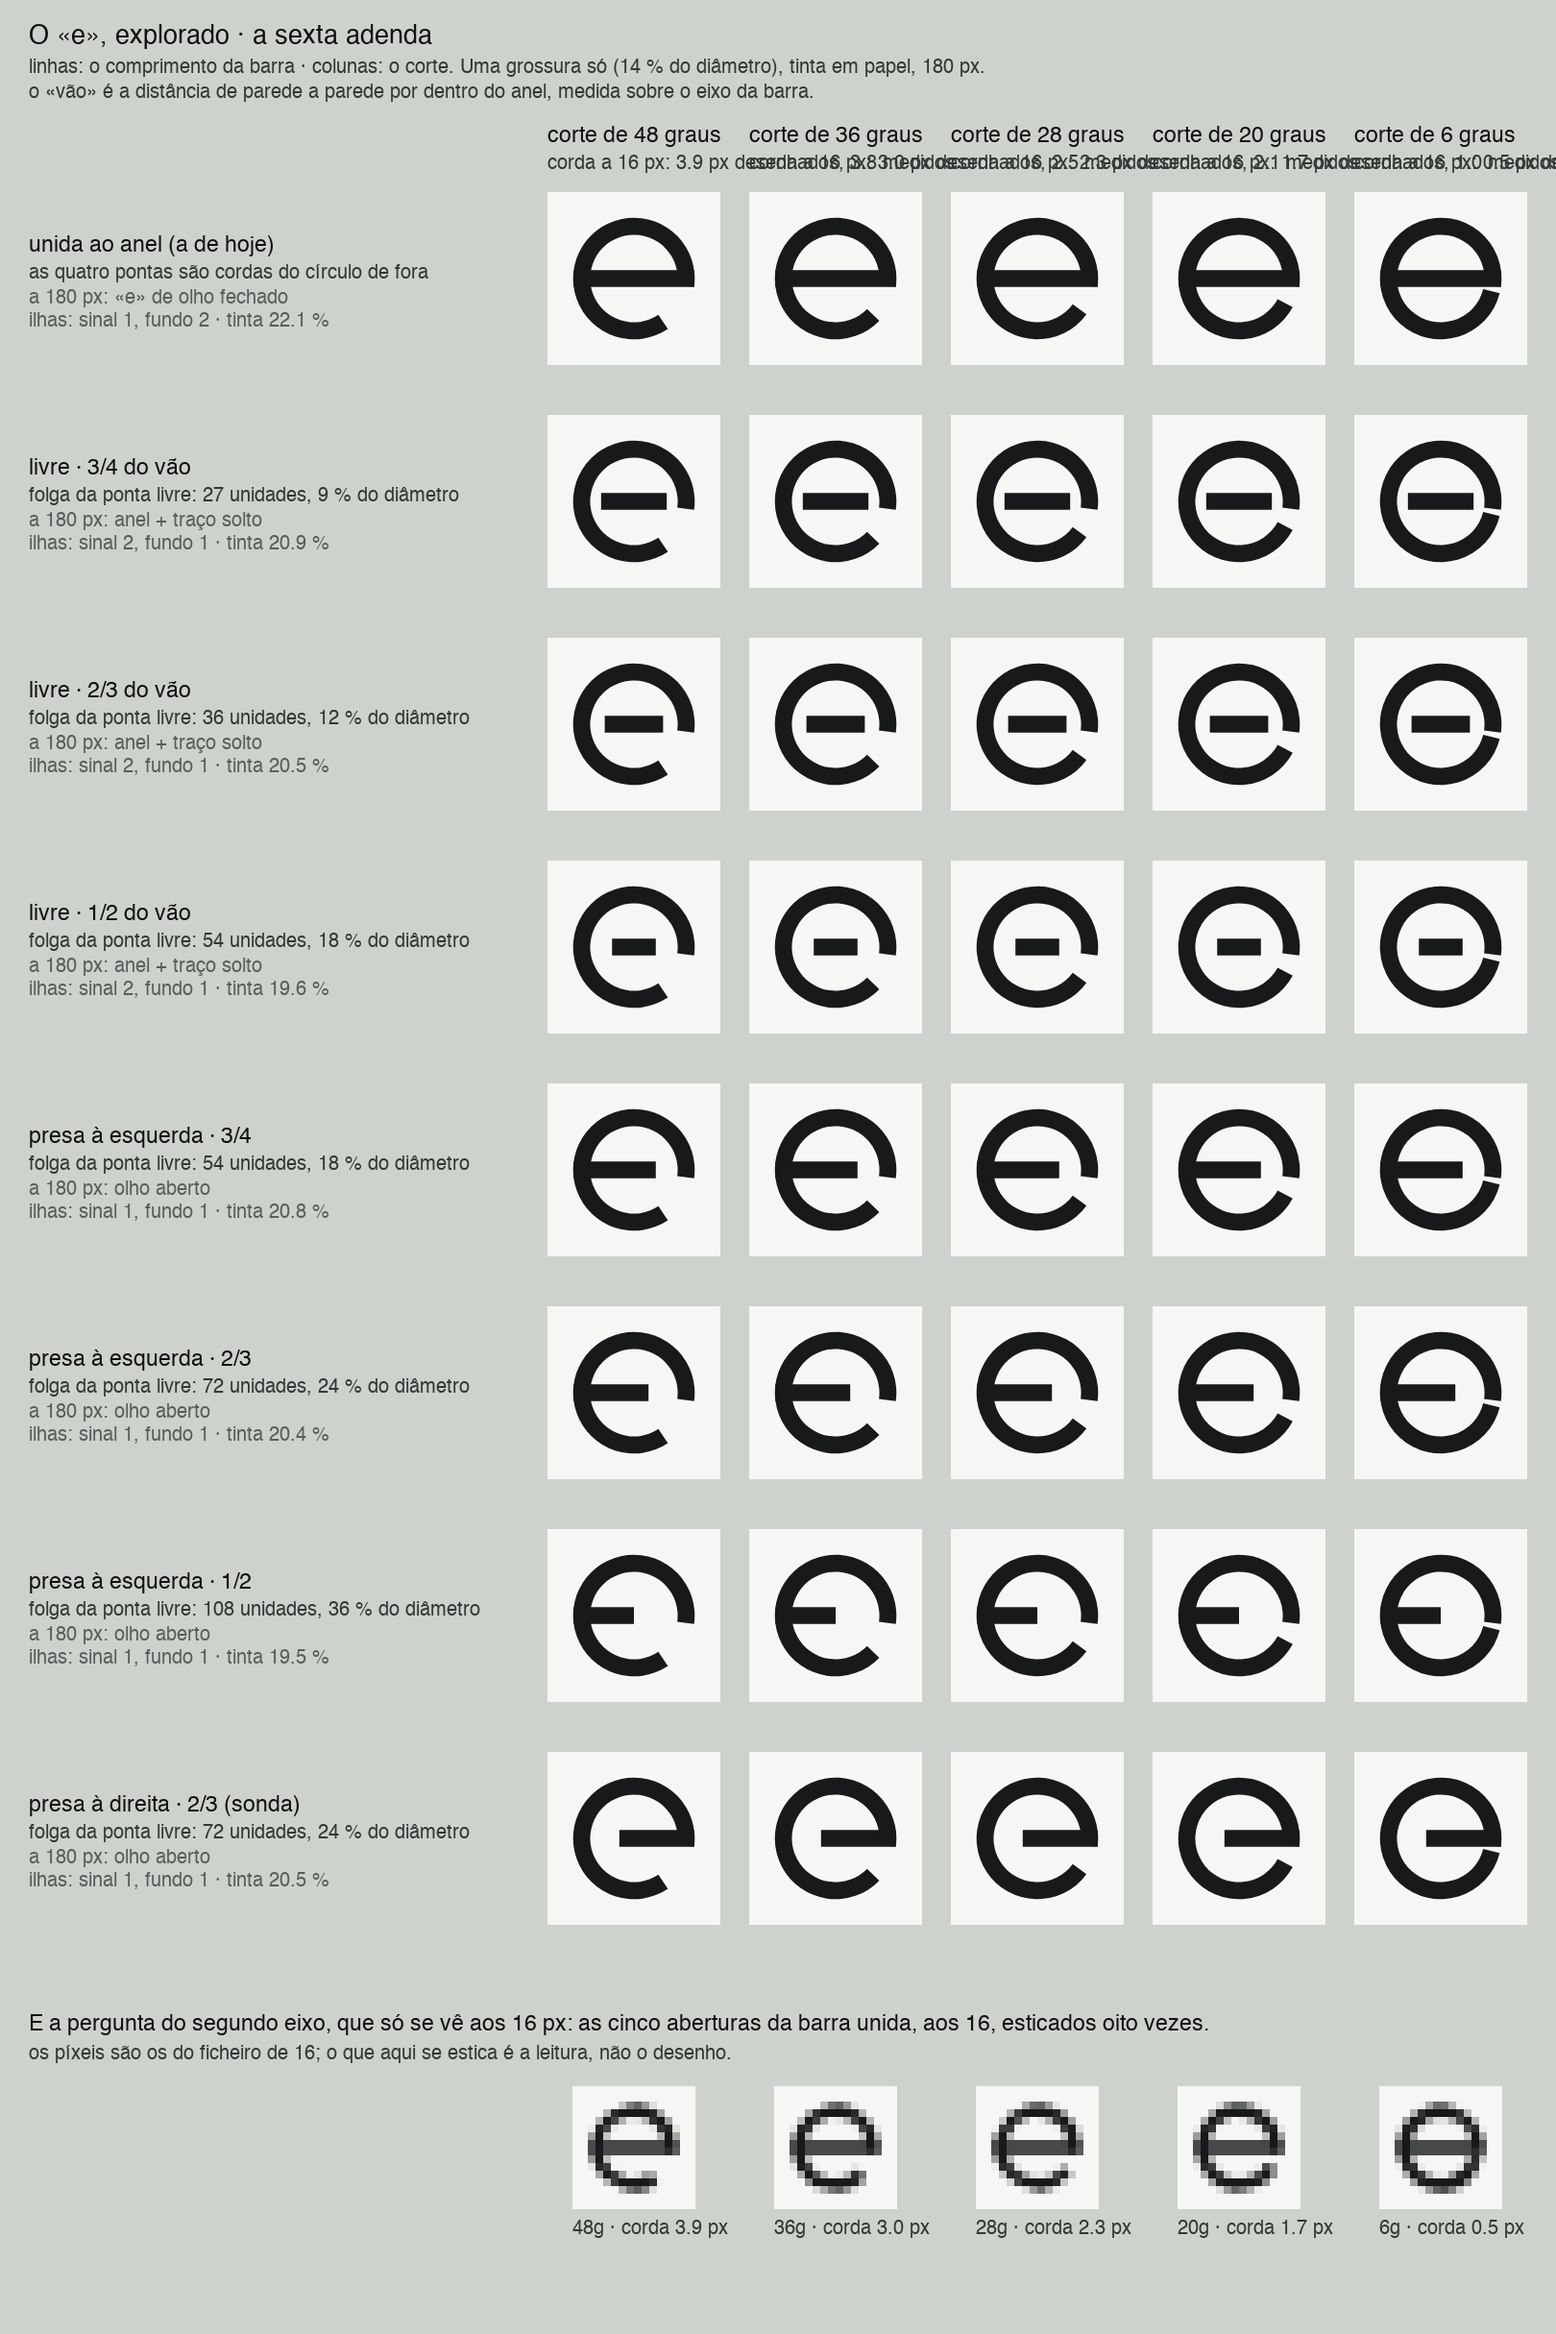
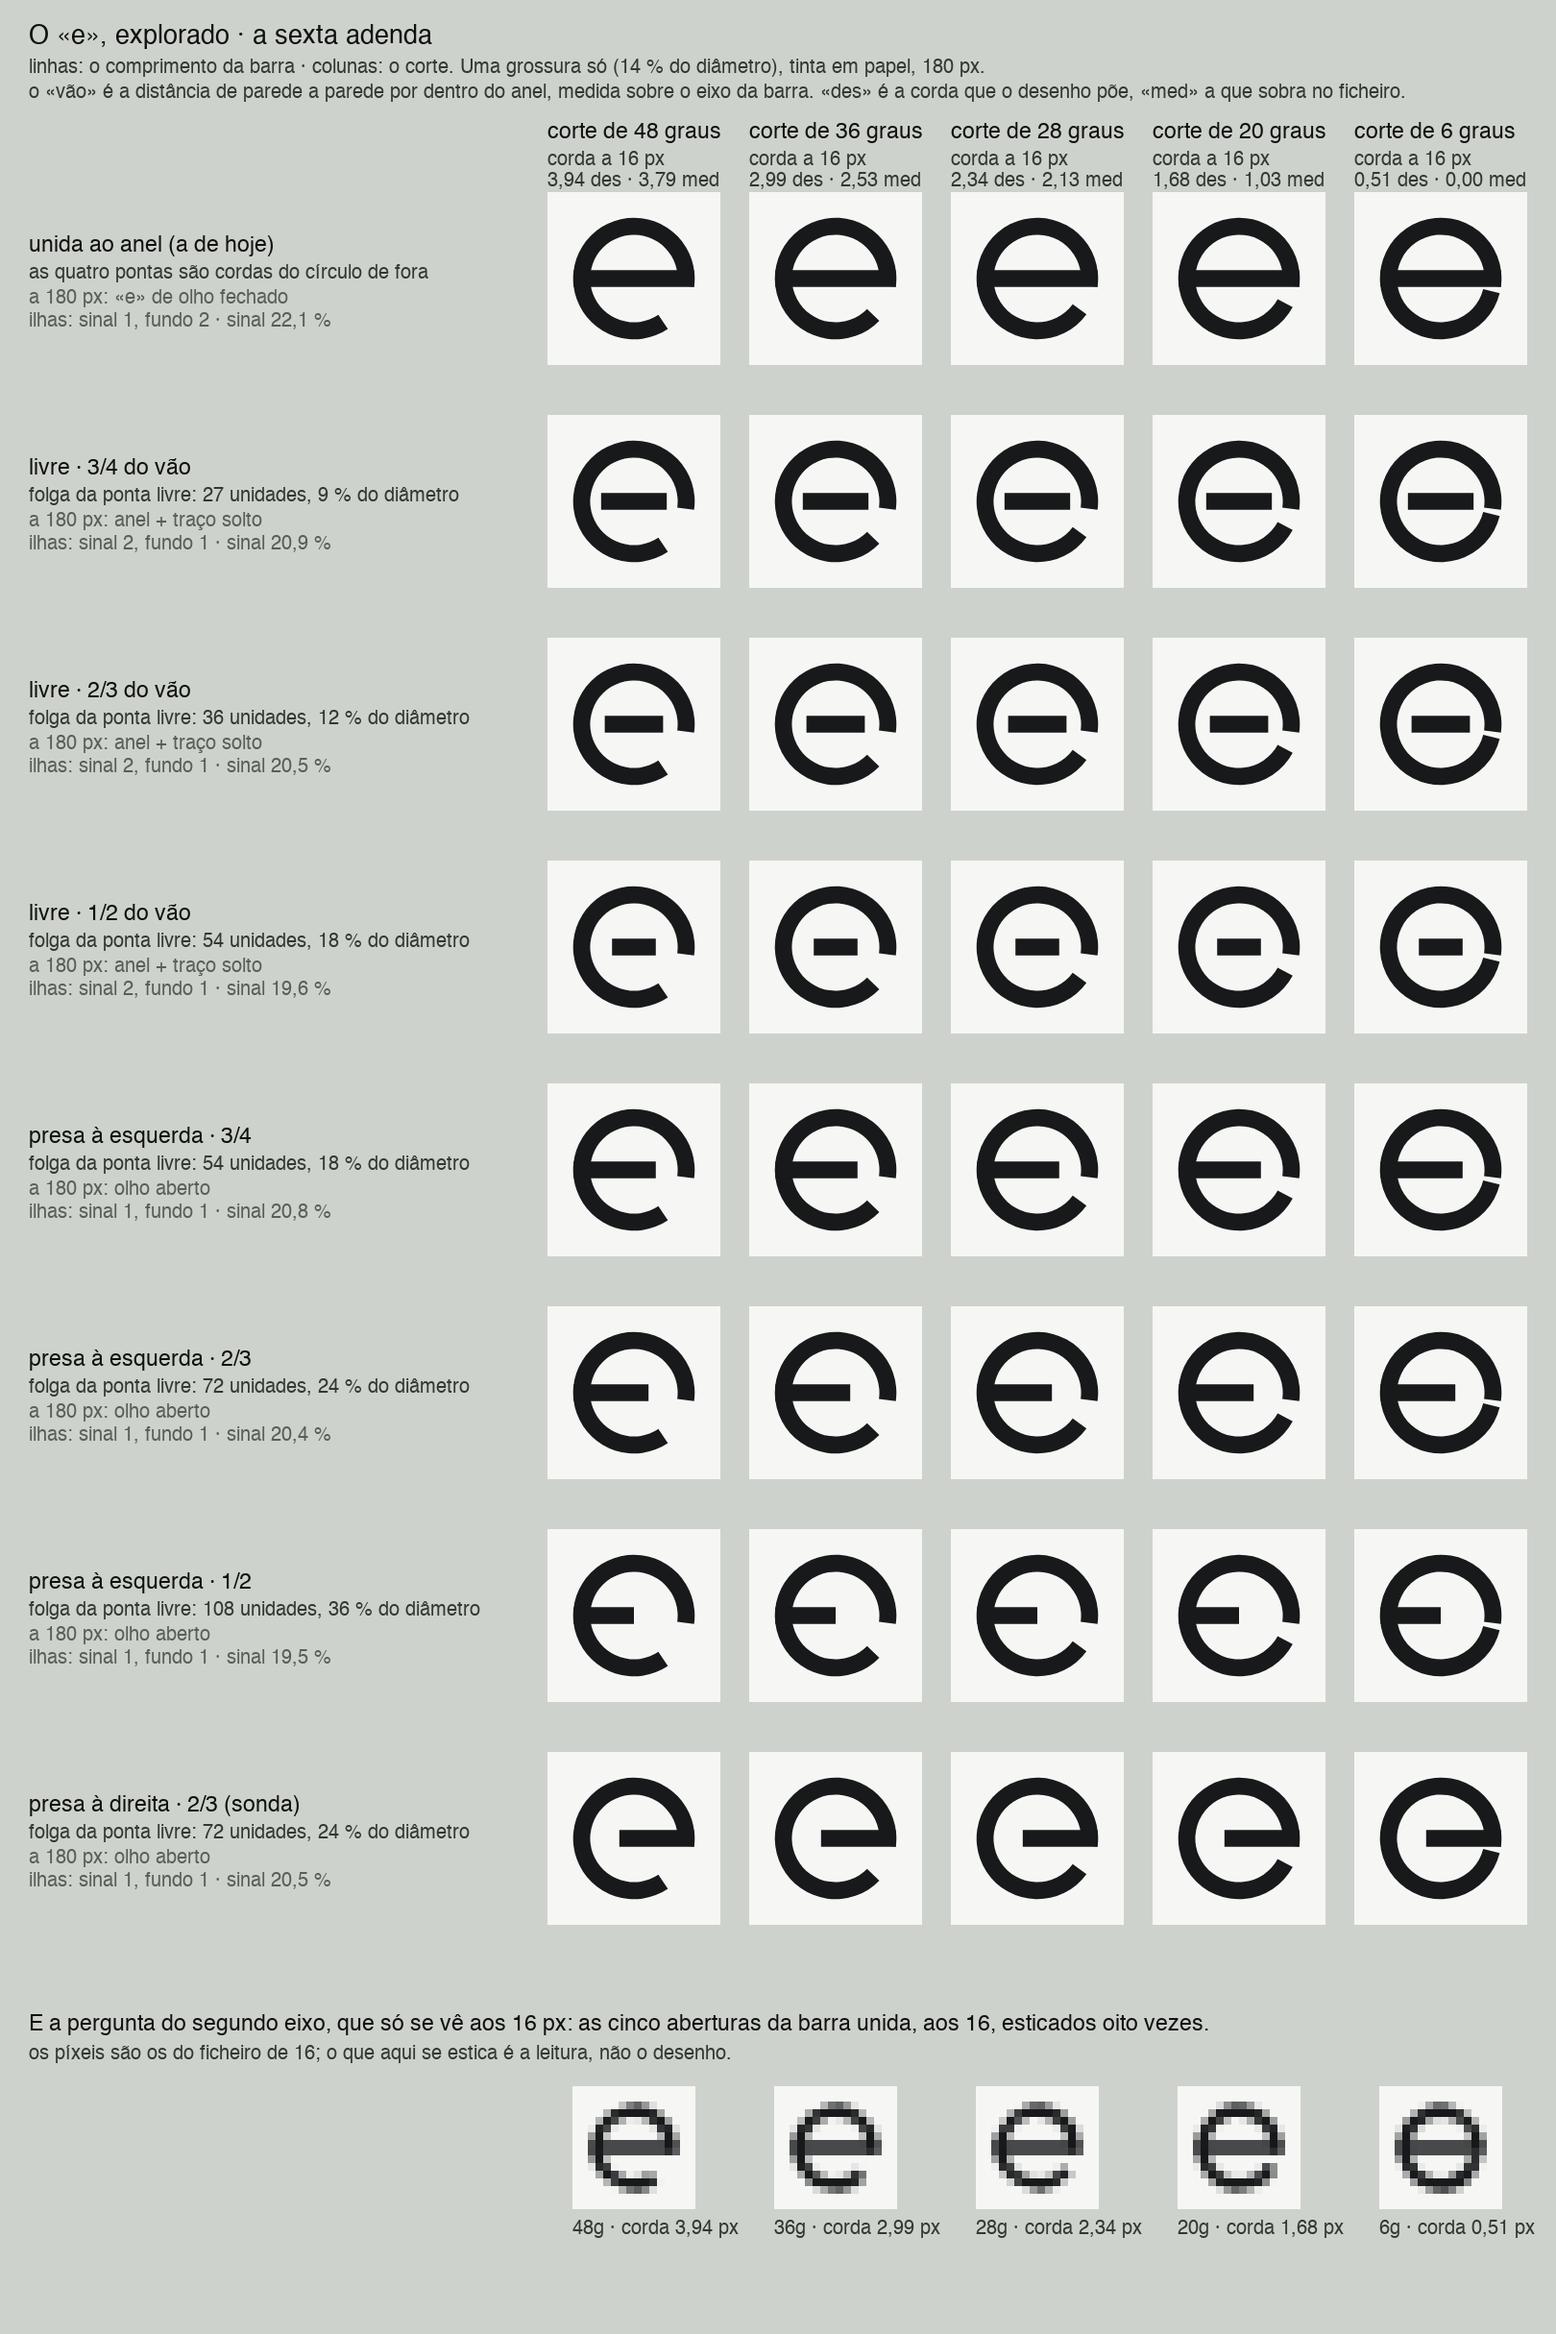
design/marca: as duas folhas legíveis, com a corda em duas linhas e vírgula decimal
Correção de leitura e não de desenho, e vem de olhar para a folha impressa em vez
de para o programa que a escreve. O cabeçalho de cada coluna levava a corda
desenhada e a medida na mesma linha, e a linha era mais larga do que a coluna: as
cinco legendas escreviam-se por cima umas das outras e nenhuma se lia. Passou a
duas linhas, com «des» e «med» explicados no subtítulo da folha.

E os números das folhas passaram a ter vírgula decimal, que é como um português os
lê. Ficam com ponto os do terminal, que são para conferir e não para ler.

Claude-Session: https://claude.ai/code/session_01BbaH3XteKcsmmN9VD6SGwU

Changed region(s): [[0.3395, 0.0309, 1.0, 0.0926]]

diff --git a/design/marca/desenhar.py b/design/marca/desenhar.py
@@ -4639,7 +4639,7 @@ PARES_E2 = [
     ("papel-tinta", "papel em tinta", TINTA, PAPEL),
     ("branco-preto", "branco puro em preto puro", PRETO, BRANCO),
     ("cobalto-papel", "cobalto em papel", PAPEL, COBALTO),
-    ("cinzento-papel", "cinzento `--g1` em papel", PAPEL, CINZENTO),
+    ("cinzento-papel", "cinzento «--g1» em papel", PAPEL, CINZENTO),
     ("ambar-tinta", "âmbar em tinta · a de hoje", TINTA, AMBAR),
 ]
 PARES_E2_MAPA = {c: (campo, letra) for c, _, campo, letra in PARES_E2}
@@ -4918,6 +4918,11 @@ def _corda16(slug, ab):
     return m["corda"] if m else 0.0
 
 
+def _v(x, casas=1):
+    """Um número para uma folha que um português lê: vírgula decimal."""
+    return f"{x:.{casas}f}".replace(".", ",")
+
+
 def folha_e2():
     from PIL import Image, ImageDraw, ImageFont
     grande = ImageFont.truetype("/System/Library/Fonts/Helvetica.ttc", 27)
@@ -4935,13 +4940,15 @@ def folha_e2():
            f"Uma grossura só ({G_E2 * 100:.0f} % do diâmetro), tinta em papel, 180 px.",
            font=pequena, fill=(52, 56, 52))
     d.text((gap, 86), "o «vão» é a distância de parede a parede por dentro do anel, "
-           "medida sobre o eixo da barra.", font=pequena, fill=(52, 56, 52))
+           "medida sobre o eixo da barra. «des» é a corda que o desenho põe, "
+           "«med» a que sobra no ficheiro.", font=pequena, fill=(52, 56, 52))
 
     for j, ab in enumerate(CORTES_E2):
         x = rot + gap + j * (cel + gap)
-        d.text((x, 130), f"corte de {ab:.0f} graus", font=media, fill=(16, 18, 16))
-        d.text((x, 160), f"corda a 16 px: {corda_desenhada(ab, 16):.1f} px desenhados, "
-               f"{_corda16(f'e2-unida-{ab:.0f}', ab):.1f} medidos",
+        d.text((x, 126), f"corte de {ab:.0f} graus", font=media, fill=(16, 18, 16))
+        d.text((x, 156), "corda a 16 px", font=pequena, fill=(52, 56, 52))
+        d.text((x, 178), f"{_v(corda_desenhada(ab, 16), 2)} des · "
+               f"{_v(_corda16(f'e2-unida-{ab:.0f}', ab), 2)} med",
                font=pequena, fill=(52, 56, 52))
 
     for i, (chave, rotulo, comp, ancora) in enumerate(GEOMETRIAS_E2):
@@ -4959,7 +4966,7 @@ def folha_e2():
                    f"a 180 px: {_tipo_de_leitura(m)}", font=pequena, fill=(90, 94, 90))
             d.text((gap, y + cel / 2 + 34),
                    f"ilhas: sinal {m['ilhas_sinal']}, fundo {m['ilhas_fundo']} · "
-                   f"tinta {m['sinal']:.1f} %", font=pequena, fill=(90, 94, 90))
+                   f"sinal {_v(m['sinal'])} %", font=pequena, fill=(90, 94, 90))
         for j, ab in enumerate(CORTES_E2):
             x = rot + gap + j * (cel + gap)
             f = os.path.join(AQUI, "EXPORT-E2", f"e2-{chave}-{ab:.0f}",
@@ -4977,7 +4984,8 @@ def folha_e2():
         f = os.path.join(AQUI, "EXPORT-E2", f"e2-unida-{ab:.0f}", f"e2-unida-{ab:.0f}-16.png")
         folha.paste(Image.open(f).convert("RGB").resize((tira, tira), Image.NEAREST),
                     (x, y + 76))
-        d.text((x, y + 76 + tira + 10), f"{ab:.0f}g · corda {corda_desenhada(ab, 16):.1f} px",
+        d.text((x, y + 76 + tira + 10),
+               f"{ab:.0f}g · corda {_v(corda_desenhada(ab, 16), 2)} px",
                font=pequena, fill=(52, 56, 52))
     saida = os.path.join(AQUI, "FOLHA-E2.png")
     folha.save(saida, optimize=True)
@@ -5041,7 +5049,7 @@ def folha_e2_cores():
         y = cabeca + i * passo
         d.text((gap, y + 62), rotulo, font=media, fill=(16, 18, 16))
         d.text((gap, y + 92), f"{letra} sobre {campo}", font=pequena, fill=(52, 56, 52))
-        d.text((gap, y + 116), f"contraste {contraste(letra, campo):.2f}:1 · "
+        d.text((gap, y + 116), f"contraste {_v(contraste(letra, campo), 2)}:1 · "
                f"{'passa' if contraste(letra, campo) >= 4.5 else 'FALHA'} 4,5:1",
                font=pequena, fill=(52, 56, 52))
         for k, (chave, ab, _, _) in enumerate(E2_CORES_ORDEM):
